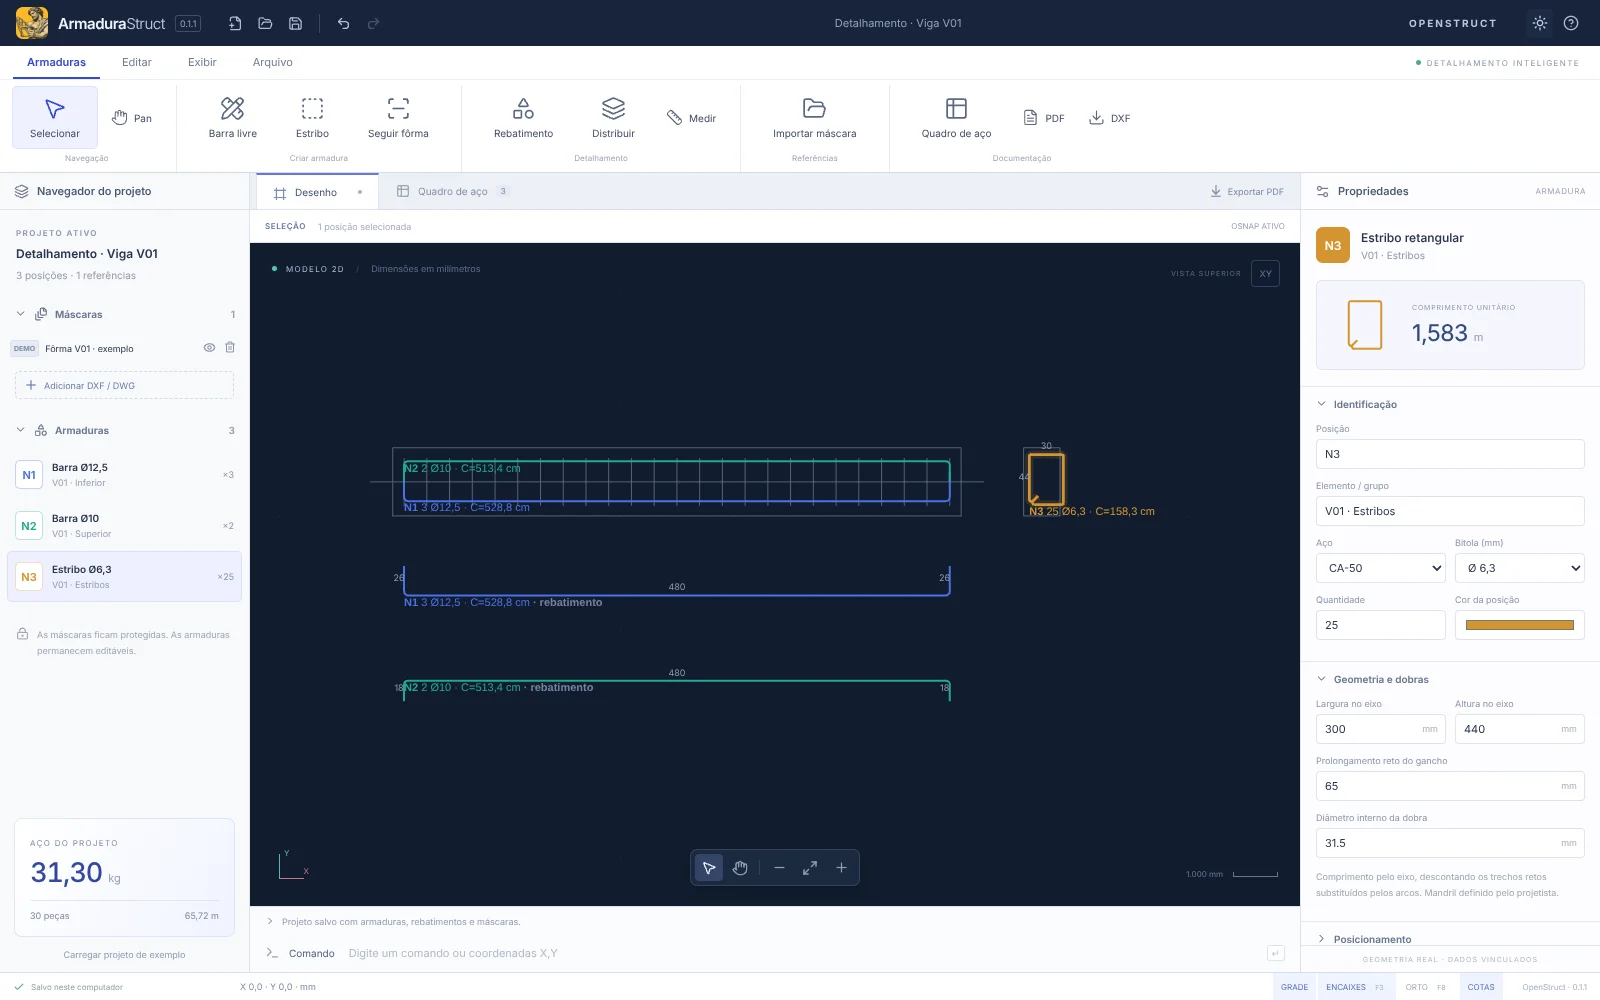
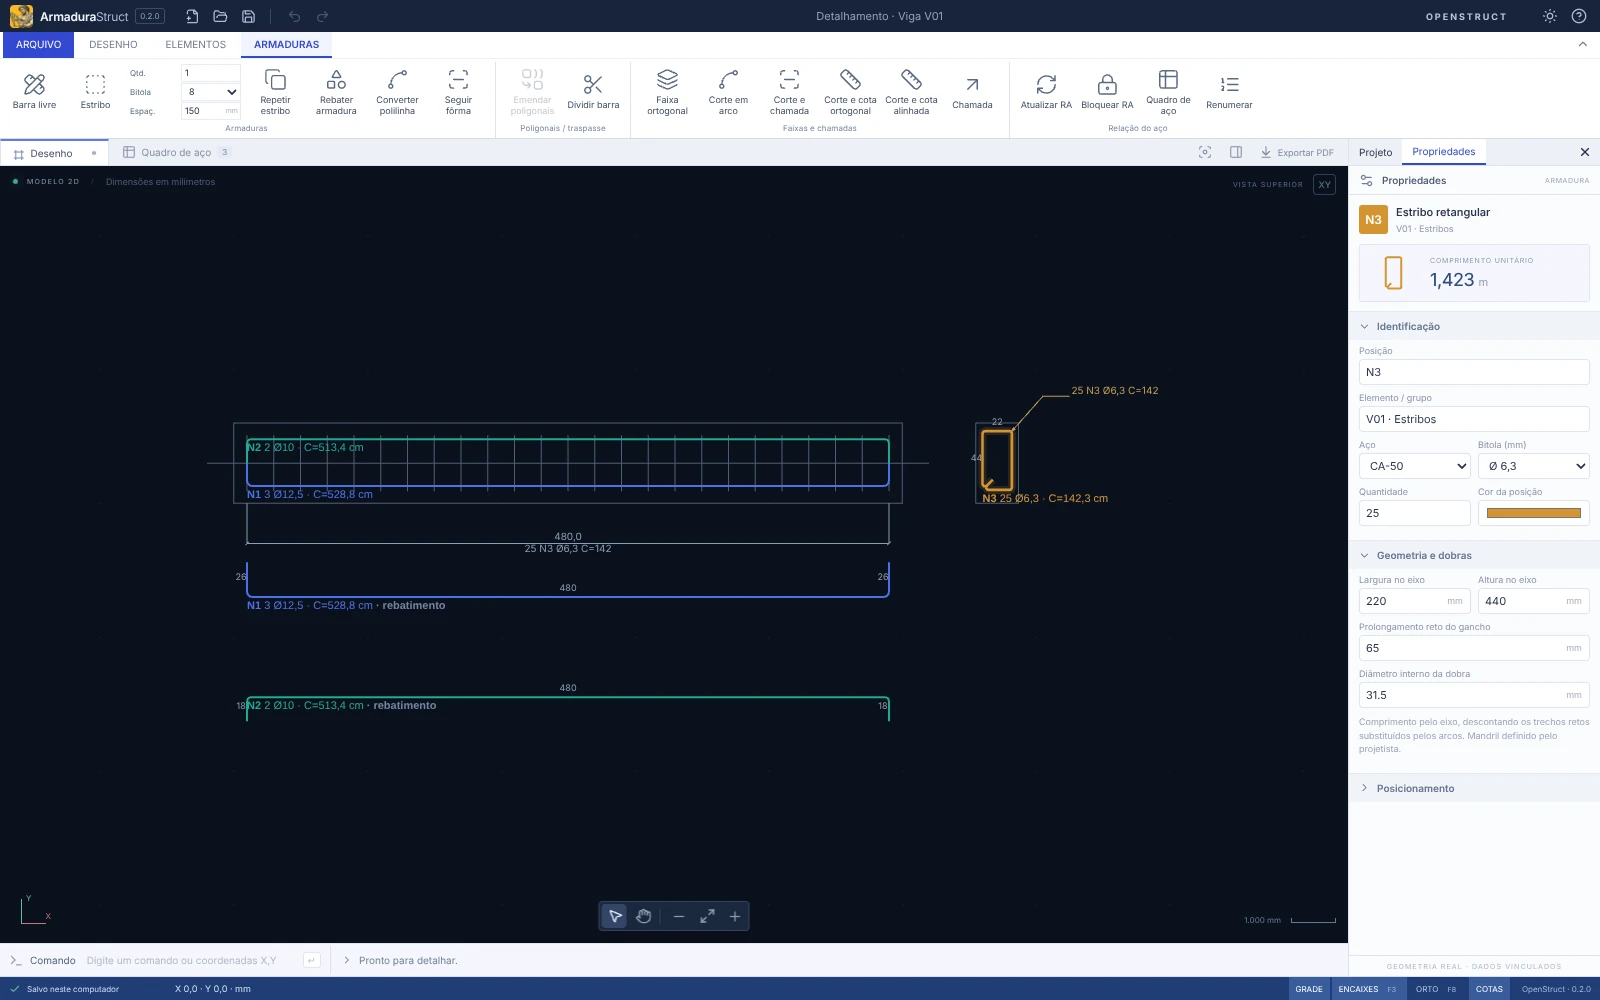
feat: present ArmaduraStruct 0.2.0 drafting tools and compact editor

diff --git a/src/pages/Armadura.tsx b/src/pages/Armadura.tsx
@@ -9,6 +9,9 @@ import {
   ListChecks,
   MousePointer2,
   PenTool,
+  Ruler,
+  Scissors,
+  PanelRight,
   SquareDashed,
 } from 'lucide-react';
 import { site } from '../lib/config';
@@ -17,7 +20,7 @@ const features = [
   {
     Icon: PenTool,
     title: 'Desenhe o aço.',
-    text: 'Barras livres, estribos retangulares, distribuição por espaçamento e armaduras acompanhando a fôrma com cobrimento.',
+    text: 'Barras livres, estribos retangulares, repetição de estribos e faixas por espaçamento e armaduras acompanhando a fôrma com cobrimento.',
   },
   {
     Icon: Layers,
@@ -28,6 +31,21 @@ const features = [
     Icon: ListChecks,
     title: 'Mantenha tudo vinculado.',
     text: 'Posições, diâmetros, quantidades e comprimentos alimentam o quadro de aço. Vistas rebatidas continuam ligadas à barra original.',
+  },
+  {
+    Icon: PanelRight,
+    title: 'Mais espaço para o CAD.',
+    text: 'Faixa compacta e um painel lateral com abas Projeto e Propriedades. Recolha os comandos ou ative o modo Foco no CAD.',
+  },
+  {
+    Icon: Ruler,
+    title: 'Detalhes que acompanham a posição.',
+    text: 'Cotas ortogonais e alinhadas, chamadas e cortes gráficos com identificação vinculada às barras. Tudo segue para o DXF e o PDF.',
+  },
+  {
+    Icon: Scissors,
+    title: 'Edite e confira.',
+    text: 'Converta polilinhas, divida barras com traspasse informado e una geometrias compatíveis. Bloqueie, atualize e renumere a relação de aço.',
   },
 ];
 
@@ -42,7 +60,7 @@ export function Armadura() {
           <div className="arm-product-name">
             <img src="/assets/armadurastruct-hephaestus.webp" alt="" width="56" height="56" />
             <strong>ArmaduraStruct</strong>
-            <span>v0.1.1</span>
+            <span>v{site.armVersion}</span>
           </div>
           <h1>
             Da fôrma
@@ -105,8 +123,8 @@ export function Armadura() {
             seu lugar.
           </h2>
           <p>
-            Ferramentas de armadura na faixa de comandos, desenho ao centro e propriedades sempre à
-            mão. Uma experiência familiar para quem projeta.
+            Ferramentas de armadura em uma faixa compacta, um único painel com abas e mais área
+            livre para desenhar. Cotas, chamadas e quantitativos fazem parte do mesmo ambiente.
           </p>
         </div>
         <figure className="arm-editor-preview">
@@ -119,7 +137,7 @@ export function Armadura() {
           />
           <figcaption>
             <span>CAPTURA DO APLICATIVO · EXEMPLO DE DETALHAMENTO</span>
-            <span>v0.1.1</span>
+            <span>v{site.armVersion}</span>
           </figcaption>
         </figure>
         <div className="arm-feature-grid">
@@ -155,7 +173,7 @@ export function Armadura() {
               ],
               [
                 'Leve o projeto adiante.',
-                'Salve o projeto editável e exporte o desenho em DXF, as pranchas em PDF e o quadro de aço em CSV.',
+                'Salve o projeto editável e exporte DXF, PDF A3 com escala selecionada e quadro de aço em CSV. Projetos antigos da série 0.1 são migrados ao abrir.',
               ],
             ].map(([title, text], i) => (
               <li key={title}>
@@ -171,7 +189,7 @@ export function Armadura() {
       </section>
       <section className="section container arm-downloads" id="downloads">
         <div>
-          <span className="eyebrow">03 / PRIMEIRA VERSÃO</span>
+          <span className="eyebrow">03 / VERSÃO ATUAL</span>
           <h2>
             Pronto para
             <br />
@@ -186,16 +204,16 @@ export function Armadura() {
           </Link>
         </div>
         <div className="arm-download-card">
-          <span className="eyebrow">ARMADURASTRUCT 0.1.1 · X86_64</span>
+          <span className="eyebrow">ARMADURASTRUCT {site.armVersion} · X86_64</span>
           <a
             className="button button-ink"
-            href={`${site.armReleaseAssets}/armadurastruct-0.1.1-windows-x86_64.exe`}
+            href={`${site.armReleaseAssets}/armadurastruct-${site.armVersion}-windows-x86_64.exe`}
           >
             <Download size={18} /> Windows <span>.exe</span>
           </a>
           <a
             className="button button-outline"
-            href={`${site.armReleaseAssets}/armadurastruct-0.1.1-linux-x86_64.AppImage`}
+            href={`${site.armReleaseAssets}/armadurastruct-${site.armVersion}-linux-x86_64.AppImage`}
           >
             <Download size={18} /> Linux <span>.AppImage</span>
           </a>
@@ -220,12 +238,13 @@ export function Armadura() {
         <div className="faq-list">
           <details>
             <summary>
-              O que faz esta primeira versão?<span>+</span>
+              O que faz esta versão?<span>+</span>
             </summary>
             <p>
               Desenha e organiza armaduras em 2D, calcula comprimentos geométricos e quantitativos e
-              gera saídas vinculadas. O dimensionamento, as verificações normativas, as ancoragens e
-              os ajustes de fabricação permanecem sob definição do projetista.
+              gera saídas vinculadas. O traspasse é informado pelo projetista e contabilizado nas
+              duas peças; não é dimensionado automaticamente. As verificações normativas, as
+              ancoragens e os ajustes de fabricação permanecem sob definição do projetista.
             </p>
           </details>
           <details>

diff --git a/src/lib/config.ts b/src/lib/config.ts
@@ -1,4 +1,5 @@
 /** Endereços oficiais e integrações opcionais do ecossistema. */
+const armVersion = '0.2.0';
 export const site = {
   name: 'OpenStruct',
   repository: 'https://github.com/ricardocorsini/openstruct-front',
@@ -9,11 +10,10 @@ export const site = {
     import.meta.env.VITE_CONSOLOSTRUCT_REPOSITORY ||
     'https://github.com/ricardocorsini/consolo-struct',
   downloadUrl: import.meta.env.VITE_CONSOLOSTRUCT_DOWNLOAD_URL || '',
+  armVersion,
   armRepository: 'https://github.com/ricardocorsini/armadura-struct',
-  armReleaseUrl:
-    'https://github.com/ricardocorsini/openstruct-catalog/releases/tag/armadurastruct-v0.1.1',
-  armReleaseAssets:
-    'https://github.com/ricardocorsini/openstruct-catalog/releases/download/armadurastruct-v0.1.1',
+  armReleaseUrl: `https://github.com/ricardocorsini/openstruct-catalog/releases/tag/armadurastruct-v${armVersion}`,
+  armReleaseAssets: `https://github.com/ricardocorsini/openstruct-catalog/releases/download/armadurastruct-v${armVersion}`,
   molaAppUrl: import.meta.env.VITE_MOLASTRUCT_URL || '',
   molaAppRepository:
     import.meta.env.VITE_MOLASTRUCT_REPOSITORY || 'https://github.com/ricardocorsini/mola-struct',
